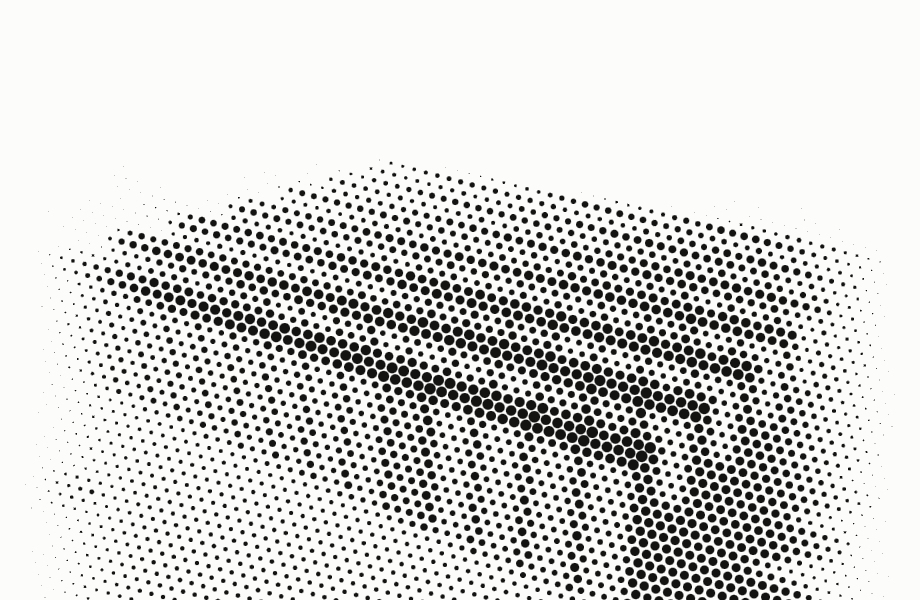
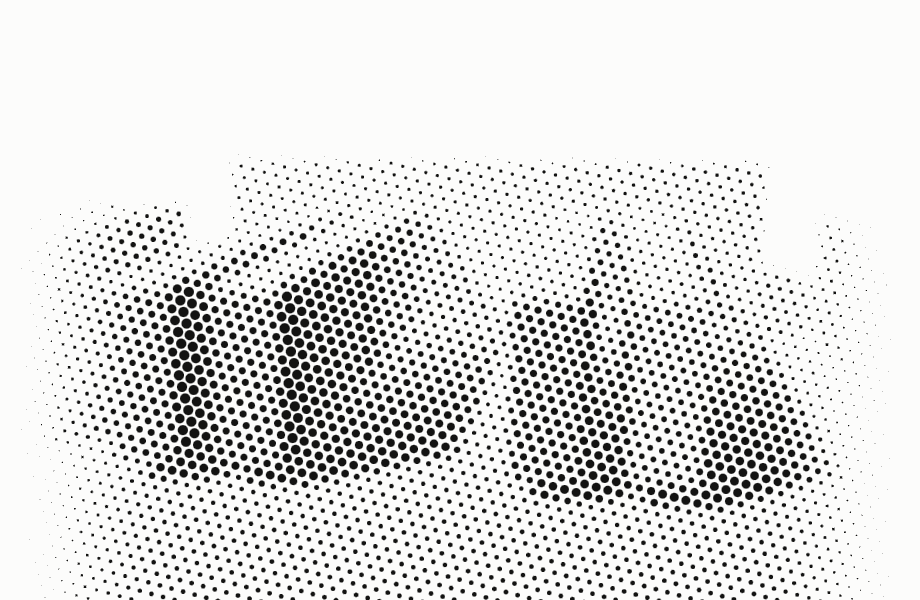
Rework datacenter's dot scene around a corridor aisle
Task 7b's camera pull-back never actually fixed the recognition test;
two reviewers opened the renders and found a rippled/dune-field read,
not server racks. Diagnosis: uniform 2.6-unit row gaps and 0.5-unit
column gaps are below the halftone's resolving power at any camera
distance, so there was no legible sub-structure for a camera to
reveal.

Tried and rejected: pair-grouped rows in the original orientation
(occluded at any low elevation, no visible change from baseline);
the same at a steep top-down elevation (exposed the aisle but reads
as terraced steps instead); a dedicated floor plate (a light tone
washed out under fog, a dark tone hid the aisle it was meant to
reveal).

Landed on reorienting the racks to run along the depth axis, forming
corridors the camera looks down rather than across, plus a back wall
closing the far end. This produces genuine converging perspective and
periodic negative space that the original scene never had, and fixes
the specific corrugation/terracing failure named in the reopening.
Pulled CAM.datacenter and CAM_ROLE['datacenter:hero'] substantially
closer, since the corridor's aisle read depends on bold coverage
surviving a 200px downsample, not on distance from the block.
Recomputed ridgeDist (24 -> 17) against the new camera and the
shorter (cabs 16 -> 9) footprint the ridge has to clear, landing
fog fraction at 0.60 (card/figure/social) and 0.69 (hero), both
inside the 0.55-0.70 band.
[…]

Changed region(s): [[0.0609, 0.27, 0.9435, 1.0], [0.0609, 0.81, 0.0913, 0.84], [0.0609, 0.48, 0.0913, 0.51]]

diff --git a/prototypes/dot-foundry.html b/prototypes/dot-foundry.html
@@ -53276,7 +53276,7 @@ const SUBJECTS = [
    wider role naturally shows more landscape rather than cropping the subject */
 const CAM = {
   port:       [6, 40, 96, 0, 7, 2],
-  datacenter: [34, 25, 44, 0, 4, 0],
+  datacenter: [6, 11, 38, 0, 3, -2],
   wind:       [0, 26, 62, 0, 8, 0],
   robotics:   [4, 26, 74, 0, 9, 0],
   grid:       [0, 20, 64, 0, 10, 0],
@@ -53292,7 +53292,7 @@ const CAM_ROLE = {
   'wind:hero':       [0, 17, 48, 0, 9, 0],
   'grid:hero':       [0, 15, 52, 0, 11, 0],
   'robotics:hero':   [4, 17, 56, 0, 10, 0],
-  'datacenter:hero': [29, 18, 36, 0, 4, 0],
+  'datacenter:hero': [5, 9, 32, 0, 3, -1],
   'port:cover':      [8, 30, 78, 0, 9, 4],
   'urban:cover':     [0, 30, 60, 0, 7, 0],
 };
@@ -53429,12 +53429,30 @@ function buildScene(id){
   }
 
   if (id === 'datacenter'){
-    for (let row=0; row<7; row++) for (let i=0;i<16;i++){
-      const z = -14 + row*4.6, x = -18 + i*2.4;
-      box(1.9,6.4,2.0, x, 3.2, z, rnd()>.7?TONE[2]:TONE[1]);
-      box(1.9,.28,2.0, x, 6.5, z, TONE[4]);
+    /* Racks stand in back-to-back pairs: a tight gap within a pair (the hot
+       aisle) and a wide gap between pairs (the cold aisle). A data hall reads
+       through that repeating gap, not through the racks themselves — compare
+       port's skipped haulage-lane column, the one part of this file that
+       already passed the recognition test on a rack-like subject. */
+    const cabs = 9, depth = 2.0, rackH = 5.0, within = 1.2, between = 6.5;
+    const gaps = [within, between, within, between, within, between, within];
+    const x0 = [0];
+    for (const gap of gaps) x0.push(x0[x0.length-1] + gap + depth);
+    const xOff = x0[x0.length-1] / 2;
+    const zOff = (cabs - 1) * 2.4 / 2;
+    for (const xRaw of x0){
+      const x = xRaw - xOff;
+      for (let i=0;i<cabs;i++){
+        const z = i*2.4 - zOff;
+        box(depth,rackH,1.9, x, rackH/2+0.5, z, rnd()>.7?TONE[2]:TONE[1]);
+        box(depth,.28,1.9, x, rackH+0.64, z, TONE[0]);
+      }
     }
-    ground(g, TONE, rnd, { w: 120, d: 110, amp: 0.8, flat: 30, ridge: 4.0, ridgeDist: 24, scatter: 16 });
+    /* A wall at the far end of the corridors, in a tone the racks never
+       reach, so the aisles resolve into an interior instead of open space —
+       the envelope that says hall rather than a field of freestanding masses. */
+    box(x0[x0.length-1] - xOff + 6, rackH + 2.4, 0.6, 0, (rackH + 2.4)/2 + 0.5, -zOff - 1.5, TONE[1]);
+    ground(g, TONE, rnd, { w: 120, d: 110, amp: 0.8, flat: 30, ridge: 4.0, ridgeDist: 17, scatter: 16 });
   }
 
   if (id === 'wind'){

diff --git a/prototypes/dot-render.html b/prototypes/dot-render.html
@@ -53132,7 +53132,7 @@ const SUBJECTS = [
    wider role naturally shows more landscape rather than cropping the subject */
 const CAM = {
   port:       [6, 40, 96, 0, 7, 2],
-  datacenter: [34, 25, 44, 0, 4, 0],
+  datacenter: [6, 11, 38, 0, 3, -2],
   wind:       [0, 26, 62, 0, 8, 0],
   robotics:   [4, 26, 74, 0, 9, 0],
   grid:       [0, 20, 64, 0, 10, 0],
@@ -53148,7 +53148,7 @@ const CAM_ROLE = {
   'wind:hero':       [0, 17, 48, 0, 9, 0],
   'grid:hero':       [0, 15, 52, 0, 11, 0],
   'robotics:hero':   [4, 17, 56, 0, 10, 0],
-  'datacenter:hero': [29, 18, 36, 0, 4, 0],
+  'datacenter:hero': [5, 9, 32, 0, 3, -1],
   'port:cover':      [8, 30, 78, 0, 9, 4],
   'urban:cover':     [0, 30, 60, 0, 7, 0],
 };
@@ -53285,12 +53285,30 @@ function buildScene(id){
   }
 
   if (id === 'datacenter'){
-    for (let row=0; row<7; row++) for (let i=0;i<16;i++){
-      const z = -14 + row*4.6, x = -18 + i*2.4;
-      box(1.9,6.4,2.0, x, 3.2, z, rnd()>.7?TONE[2]:TONE[1]);
-      box(1.9,.28,2.0, x, 6.5, z, TONE[4]);
+    /* Racks stand in back-to-back pairs: a tight gap within a pair (the hot
+       aisle) and a wide gap between pairs (the cold aisle). A data hall reads
+       through that repeating gap, not through the racks themselves — compare
+       port's skipped haulage-lane column, the one part of this file that
+       already passed the recognition test on a rack-like subject. */
+    const cabs = 9, depth = 2.0, rackH = 5.0, within = 1.2, between = 6.5;
+    const gaps = [within, between, within, between, within, between, within];
+    const x0 = [0];
+    for (const gap of gaps) x0.push(x0[x0.length-1] + gap + depth);
+    const xOff = x0[x0.length-1] / 2;
+    const zOff = (cabs - 1) * 2.4 / 2;
+    for (const xRaw of x0){
+      const x = xRaw - xOff;
+      for (let i=0;i<cabs;i++){
+        const z = i*2.4 - zOff;
+        box(depth,rackH,1.9, x, rackH/2+0.5, z, rnd()>.7?TONE[2]:TONE[1]);
+        box(depth,.28,1.9, x, rackH+0.64, z, TONE[0]);
+      }
     }
-    ground(g, TONE, rnd, { w: 120, d: 110, amp: 0.8, flat: 30, ridge: 4.0, ridgeDist: 24, scatter: 16 });
+    /* A wall at the far end of the corridors, in a tone the racks never
+       reach, so the aisles resolve into an interior instead of open space —
+       the envelope that says hall rather than a field of freestanding masses. */
+    box(x0[x0.length-1] - xOff + 6, rackH + 2.4, 0.6, 0, (rackH + 2.4)/2 + 0.5, -zOff - 1.5, TONE[1]);
+    ground(g, TONE, rnd, { w: 120, d: 110, amp: 0.8, flat: 30, ridge: 4.0, ridgeDist: 17, scatter: 16 });
   }
 
   if (id === 'wind'){

diff --git a/prototypes/dot-engine.js b/prototypes/dot-engine.js
@@ -73,7 +73,7 @@ const SUBJECTS = [
    wider role naturally shows more landscape rather than cropping the subject */
 const CAM = {
   port:       [6, 40, 96, 0, 7, 2],
-  datacenter: [34, 25, 44, 0, 4, 0],
+  datacenter: [6, 11, 38, 0, 3, -2],
   wind:       [0, 26, 62, 0, 8, 0],
   robotics:   [4, 26, 74, 0, 9, 0],
   grid:       [0, 20, 64, 0, 10, 0],
@@ -89,7 +89,7 @@ const CAM_ROLE = {
   'wind:hero':       [0, 17, 48, 0, 9, 0],
   'grid:hero':       [0, 15, 52, 0, 11, 0],
   'robotics:hero':   [4, 17, 56, 0, 10, 0],
-  'datacenter:hero': [29, 18, 36, 0, 4, 0],
+  'datacenter:hero': [5, 9, 32, 0, 3, -1],
   'port:cover':      [8, 30, 78, 0, 9, 4],
   'urban:cover':     [0, 30, 60, 0, 7, 0],
 };
@@ -226,12 +226,30 @@ function buildScene(id){
   }
 
   if (id === 'datacenter'){
-    for (let row=0; row<7; row++) for (let i=0;i<16;i++){
-      const z = -14 + row*4.6, x = -18 + i*2.4;
-      box(1.9,6.4,2.0, x, 3.2, z, rnd()>.7?TONE[2]:TONE[1]);
-      box(1.9,.28,2.0, x, 6.5, z, TONE[4]);
+    /* Racks stand in back-to-back pairs: a tight gap within a pair (the hot
+       aisle) and a wide gap between pairs (the cold aisle). A data hall reads
+       through that repeating gap, not through the racks themselves — compare
+       port's skipped haulage-lane column, the one part of this file that
+       already passed the recognition test on a rack-like subject. */
+    const cabs = 9, depth = 2.0, rackH = 5.0, within = 1.2, between = 6.5;
+    const gaps = [within, between, within, between, within, between, within];
+    const x0 = [0];
+    for (const gap of gaps) x0.push(x0[x0.length-1] + gap + depth);
+    const xOff = x0[x0.length-1] / 2;
+    const zOff = (cabs - 1) * 2.4 / 2;
+    for (const xRaw of x0){
+      const x = xRaw - xOff;
+      for (let i=0;i<cabs;i++){
+        const z = i*2.4 - zOff;
+        box(depth,rackH,1.9, x, rackH/2+0.5, z, rnd()>.7?TONE[2]:TONE[1]);
+        box(depth,.28,1.9, x, rackH+0.64, z, TONE[0]);
+      }
     }
-    ground(g, TONE, rnd, { w: 120, d: 110, amp: 0.8, flat: 30, ridge: 4.0, ridgeDist: 24, scatter: 16 });
+    /* A wall at the far end of the corridors, in a tone the racks never
+       reach, so the aisles resolve into an interior instead of open space —
+       the envelope that says hall rather than a field of freestanding masses. */
+    box(x0[x0.length-1] - xOff + 6, rackH + 2.4, 0.6, 0, (rackH + 2.4)/2 + 0.5, -zOff - 1.5, TONE[1]);
+    ground(g, TONE, rnd, { w: 120, d: 110, amp: 0.8, flat: 30, ridge: 4.0, ridgeDist: 17, scatter: 16 });
   }
 
   if (id === 'wind'){
